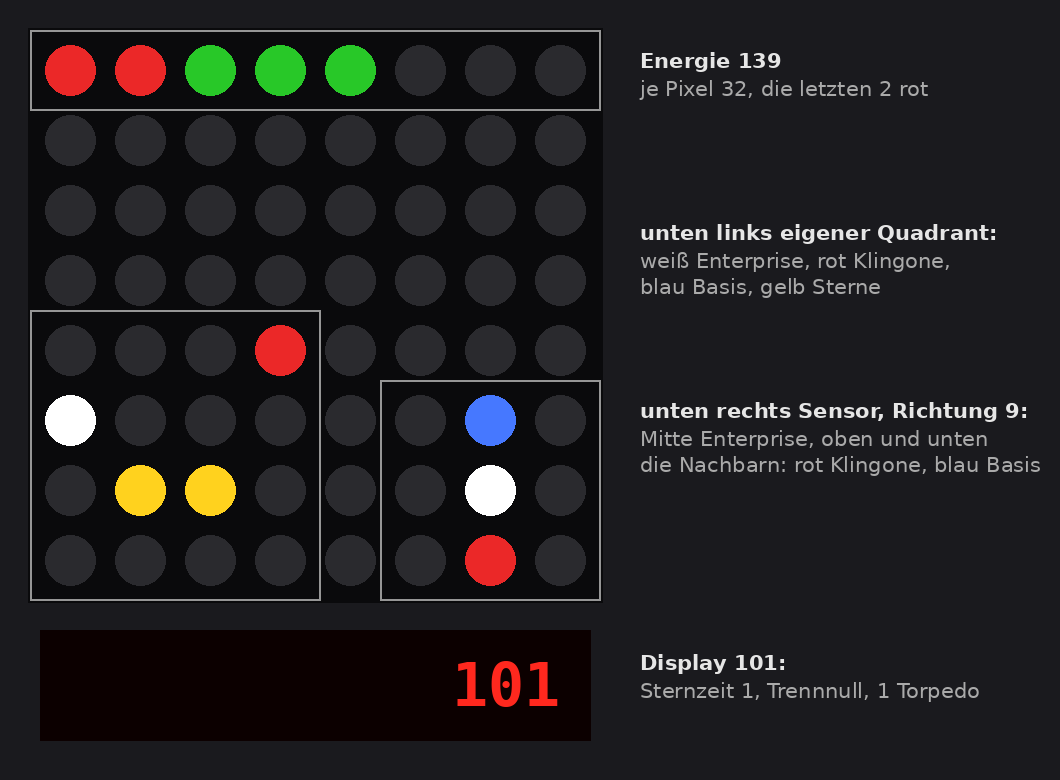
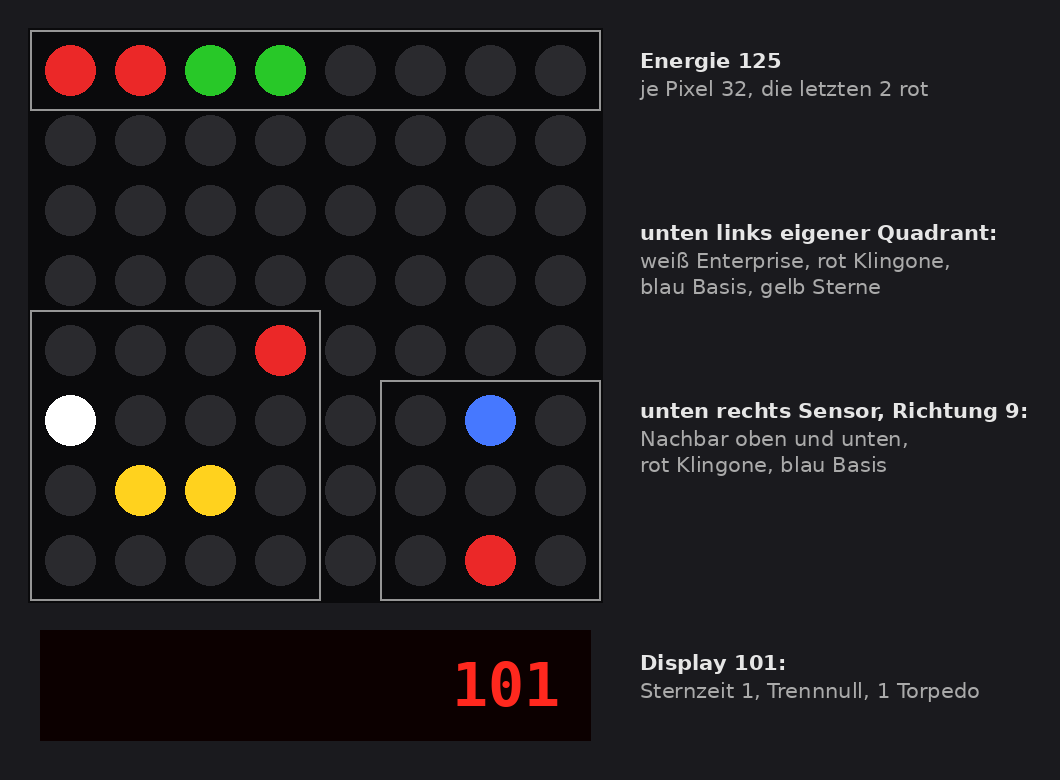
Zurueck zur dunklen Mitte im Sensor (wie b0b4b49)
Claude-Session: https://claude.ai/code/session_01U7feknepqYz7XUdFg7XNeb

diff --git a/startrek_farben.py b/startrek_farben.py
@@ -1,12 +1,10 @@
 # startrek_farben.py - Farben fuer Star Trek mit Matrix (startrek-m02): vor RUN einmal starten.
 # setColors gibt jedem Pixel seine Farbnummer (Namen = Nummern 0-9, oberste Zeile zuerst, links zuerst),
 # setPalette macht daraus die gewuenschten Farben. Den Energiebalken (Zeile 7) schaltet das
-# Programm nur an und aus; seine Farbe kommt von hier, ebenso die der Enterprise in der Mitte des Sensors.
-# Karte und Nachbarquadranten im Sensor faerbt das Programm selbst.
+# Programm nur an und aus; seine Farbe kommt von hier. Karte und Sensor faerbt das Programm selbst.
 N = ["schwarz", "rot", "orange", "gelb", "gruen", "tuerkis", "blau", "violett", "magenta", "weiss"]
-setColors([N[3]] * 2 + [N[4]] * 6 + ["schwarz"] * 46 + [N[5]] + ["schwarz"] * 9)
-# Zeile 7: Pixel 0-1 Farbe 3, Pixel 2-7 Farbe 4; Zeile 1, Spalte 6 (Mitte des Sensors): Farbe 5
-setPalette(5, (10, 10, 10))   # 5: Enterprise (Karte und Mitte des Sensors): weiss
+setColors([N[3]] * 2 + [N[4]] * 6 + ["schwarz"] * 56)   # Zeile 7: Pixel 0-1 Farbe 3, Pixel 2-7 Farbe 4
+setPalette(5, (10, 10, 10))   # 5: Enterprise: weiss
 setPalette(3, (10, 0, 0))     # 3: Klingone und Energie unter 64: rot
 setPalette(4, (0, 10, 0))     # 4: Energie ab 64: gruen
 setPalette(7, (0, 0, 10))     # 7: Sternenbasis: blau

diff --git a/README.md b/README.md
@@ -2,7 +2,7 @@
 
 Star Trek im Stil von 1971 für den Busch Microtronic 2090 mit dem [ESP2090 Studio](https://github.com/rab-berlin/ESP2090) (8x8-LED-Matrix mit Farben): 8 Klingonen in einer Galaxie aus 16 Quadranten finden und zerstören, bevor Energie oder Zeit ausgehen.
 
-- alle 256 Programmschritte belegt
+- 255 von 256 Programmschritten belegt
 - Dateien: [startrek.mic](startrek.mic), das kommentierte Listing, und das Userscript [startrek_farben.py](startrek_farben.py) für die Farben
 
 ![Spielfeld nach einem Sensor-Scan](bilder/spielfeld.png)
@@ -15,8 +15,8 @@ Die Galaxie hat 4 x 4 Quadranten zu je 4 x 4 Sektoren und ist ringförmig geschl
 - **Basis:** genau eine, irgendwo in der Galaxie. Wer hineinfliegt, dockt an: wieder 255 Energie und 1 Torpedo. Die Enterprise bleibt vor der Basis stehen. Am Anfang hat sie ebenfalls 255 Energie und 1 Torpedo.
 - **Sterne:** 2 je Quadrant. Sie halten Flug und Phaser auf.
 - **Start:** Die Enterprise startet in der linken unteren Ecke. Liegt dort ein Stern, verdeckt er sie, bis sie losfliegt (in 16 von 256 Galaxien).
-- **Gewonnen:** alle 8 Klingonen zerstört, das Programm hält an Adresse A3.
-- **Verloren:** Energie unter 0 oder nach 51 Aktionen die Zeit abgelaufen, das Programm hält an Adresse A4.
+- **Gewonnen:** alle 8 Klingonen zerstört, das Programm hält an Adresse A2.
+- **Verloren:** Energie unter 0 oder nach 51 Aktionen die Zeit abgelaufen, das Programm hält an Adresse A3.
 
 Jede Aktion zählt die Sternzeit weiter, auch Sensor und Andocken. Danach schießt ein Klingone im Quadranten, dann zeichnet die Matrix neu (etwa 3,5 Sekunden).
 
@@ -47,7 +47,7 @@ Richtungen wie auf dem Tastenfeld:
 |---|---|
 | Matrix, Zeile 7 | Energiebalken, je 32 Energie ein Pixel (8 Pixel = 224 bis 255, 1 Pixel = unter 32). Grün, die letzten beiden rot (unter 64) |
 | Matrix, unten links 4 x 4 | der eigene Quadrant: weiß Enterprise, rot Klingone, blau Basis, gelb Sterne |
-| Matrix, unten rechts 3 x 3 (Zeilen 0-2, Spalten 5-7) | Sensor: die Quadranten rund um den eigenen (Mitte), oben ist oben in der Galaxie. In der Mitte weiß die Enterprise, dazu die beiden gewählten Nachbarn: rot Klingone, blau Basis, violett beides, sonst dunkel |
+| Matrix, unten rechts 3 x 3 (Zeilen 0-2, Spalten 5-7) | Sensor: die Quadranten rund um den eigenen (Mitte), oben ist oben in der Galaxie. Es leuchten die beiden gewählten Nachbarn: rot Klingone, blau Basis, violett beides, sonst dunkel |
 | Anzeige des Microtronic | beim Warten auf eine Taste drei Ziffern: Sternzeit 0-F, eine trennende 0, Torpedos. `501` heißt Sternzeit 5, 1 Torpedo. Die Sternzeit rückt alle 3 bis 4 Aktionen eins weiter. Nach F läuft die Zeit ab |
 
 Die Anzeige ist dunkel, solange die Matrix zeichnet: Mit eingeschalteter Anzeige braucht jeder Befehl 20,5 statt 9,3 ms, und dann schafft die Matrix den Handshake nicht.
@@ -60,7 +60,7 @@ Die Anzeige ist dunkel, solange die Matrix zeichnet: Mit eingeschalteter Anzeige
 
 Die Zeit zwischen RESET und RUN bestimmt die Galaxie. Neues Spiel: RESET, RUN.
 
-**Ohne Userscript** färbt das Programm Karte und Sensor selbst, nur der Energiebalken und die Enterprise in der Mitte des Sensors bleiben in der Standardfarbe der Matrix.
+**Ohne Userscript** färbt das Programm Karte und Sensor selbst, nur der Energiebalken bleibt in der Standardfarbe der Matrix.
 
 ## Spieltipps
 
@@ -80,7 +80,7 @@ Alle Werte sind Konstanten im Programm und lassen sich ohne zusätzliche Schritt
 | Zeitlimit | 13 | `55A` (`ADDI 5,A`) | je Aktion + 5, Ende nach 52 Zählungen (51 Aktionen). `54A` = 63, `56A` = 42 Aktionen |
 | Energie bei Start und Andocken | 0D, 0E | `1F8`, `1F9` | FFh = 255; der Balken rechnet mit 32 je Pixel |
 | Sensor | 6E | `729` (`SUBI 2,9`) | 2 x 16 = 32 Energie |
-| Navigation | AC | `14D` (`MOVI 4,D`) | 4 Energie je Feld |
+| Navigation | AB | `14D` (`MOVI 4,D`) | 4 Energie je Feld |
 
 ## Simulation
 
@@ -109,7 +109,7 @@ Der 2090 kennt keine indirekte Adressierung und nur eine Rücksprungadresse. 256
 - **Ein Unterprogramm für alles.** `LQ` (68 Schritte) berechnet zu einem beliebigen Feld den Quadranten und liefert, was auf dem Feld liegt. Flug, Phaser, Sensor und Bild benutzen es alle; der Sensor springt hinter den ersten beiden Befehlen ein und gibt das Feld direkt vor.
 - **Reihen drehen statt adressieren.** Die vier Klingonen-Reihen liegen in M0-M3. Um Reihe y zu lesen, dreht das Programm die vier Register, bis sie in M0 liegt, und merkt sich den Drehstand.
 - **Energie als Linie.** Der Balken ist ein einziger Linienbefehl der Matrix bis zum Pixel Energie / 32. Das ist die obere Ziffer der Energie, einmal nach rechts geschoben: zwei Befehle statt einer Schleife. Die Farben der Zeile setzt das Userscript; das Programm schaltet die Pixel nur an und aus.
-- **Sensor ohne Tabelle.** Die Matrixzeile des Sensors ist dy + 1 (Zeilen 0 bis 2); dieselbe Zahl mal 4 minus 4 ist der Versatz −4, 0 oder +4 zum Nachbarquadranten. Die Gegenrichtung ist 2 minus Zeile und −dx; ein Zähler in R0 sorgt für genau zwei Durchgänge. Die weiße Mitte schaltet ein einziger Punktbefehl an, der nur das Bit setzt; die Farbe 5 hat das Userscript vorher dort hinterlegt.
+- **Sensor ohne Tabelle.** Die Matrixzeile des Sensors ist dy + 1 (Zeilen 0 bis 2); dieselbe Zahl mal 4 minus 4 ist der Versatz −4, 0 oder +4 zum Nachbarquadranten. Die Gegenrichtung ist 2 minus Zeile und −dx; ein Zähler in R0 sorgt für genau zwei Durchgänge.
 - **Torpedo mit Übertrag.** `SUBI 1,C` zieht einen Torpedo ab; war keiner mehr da, macht `ADC C` aus F wieder 0 und lässt den Übertrag stehen, der den Schuss abbricht. Das spart die getrennte Abfrage.
 - **Kein Blitzen.** Das Bild zeichnet fünf Pixel nacheinander: Stern 1, Basis, Enterprise, Klingone, Stern 2. Fehlt im Quadranten der Klingone oder die Basis, legt das Programm diesen Eintrag auf Stern 2, der zuletzt kommt und ihn übermalt. So bleibt die Schleife gleich lang, und das Schiff behält immer seine Farbe.
 - **Display mit Trennnull.** Vor dem Warten auf die Taste kopiert das Programm Sternzeit, 0 und Torpedos in drei benachbarte Register, die `DISP` dann zeigt.
